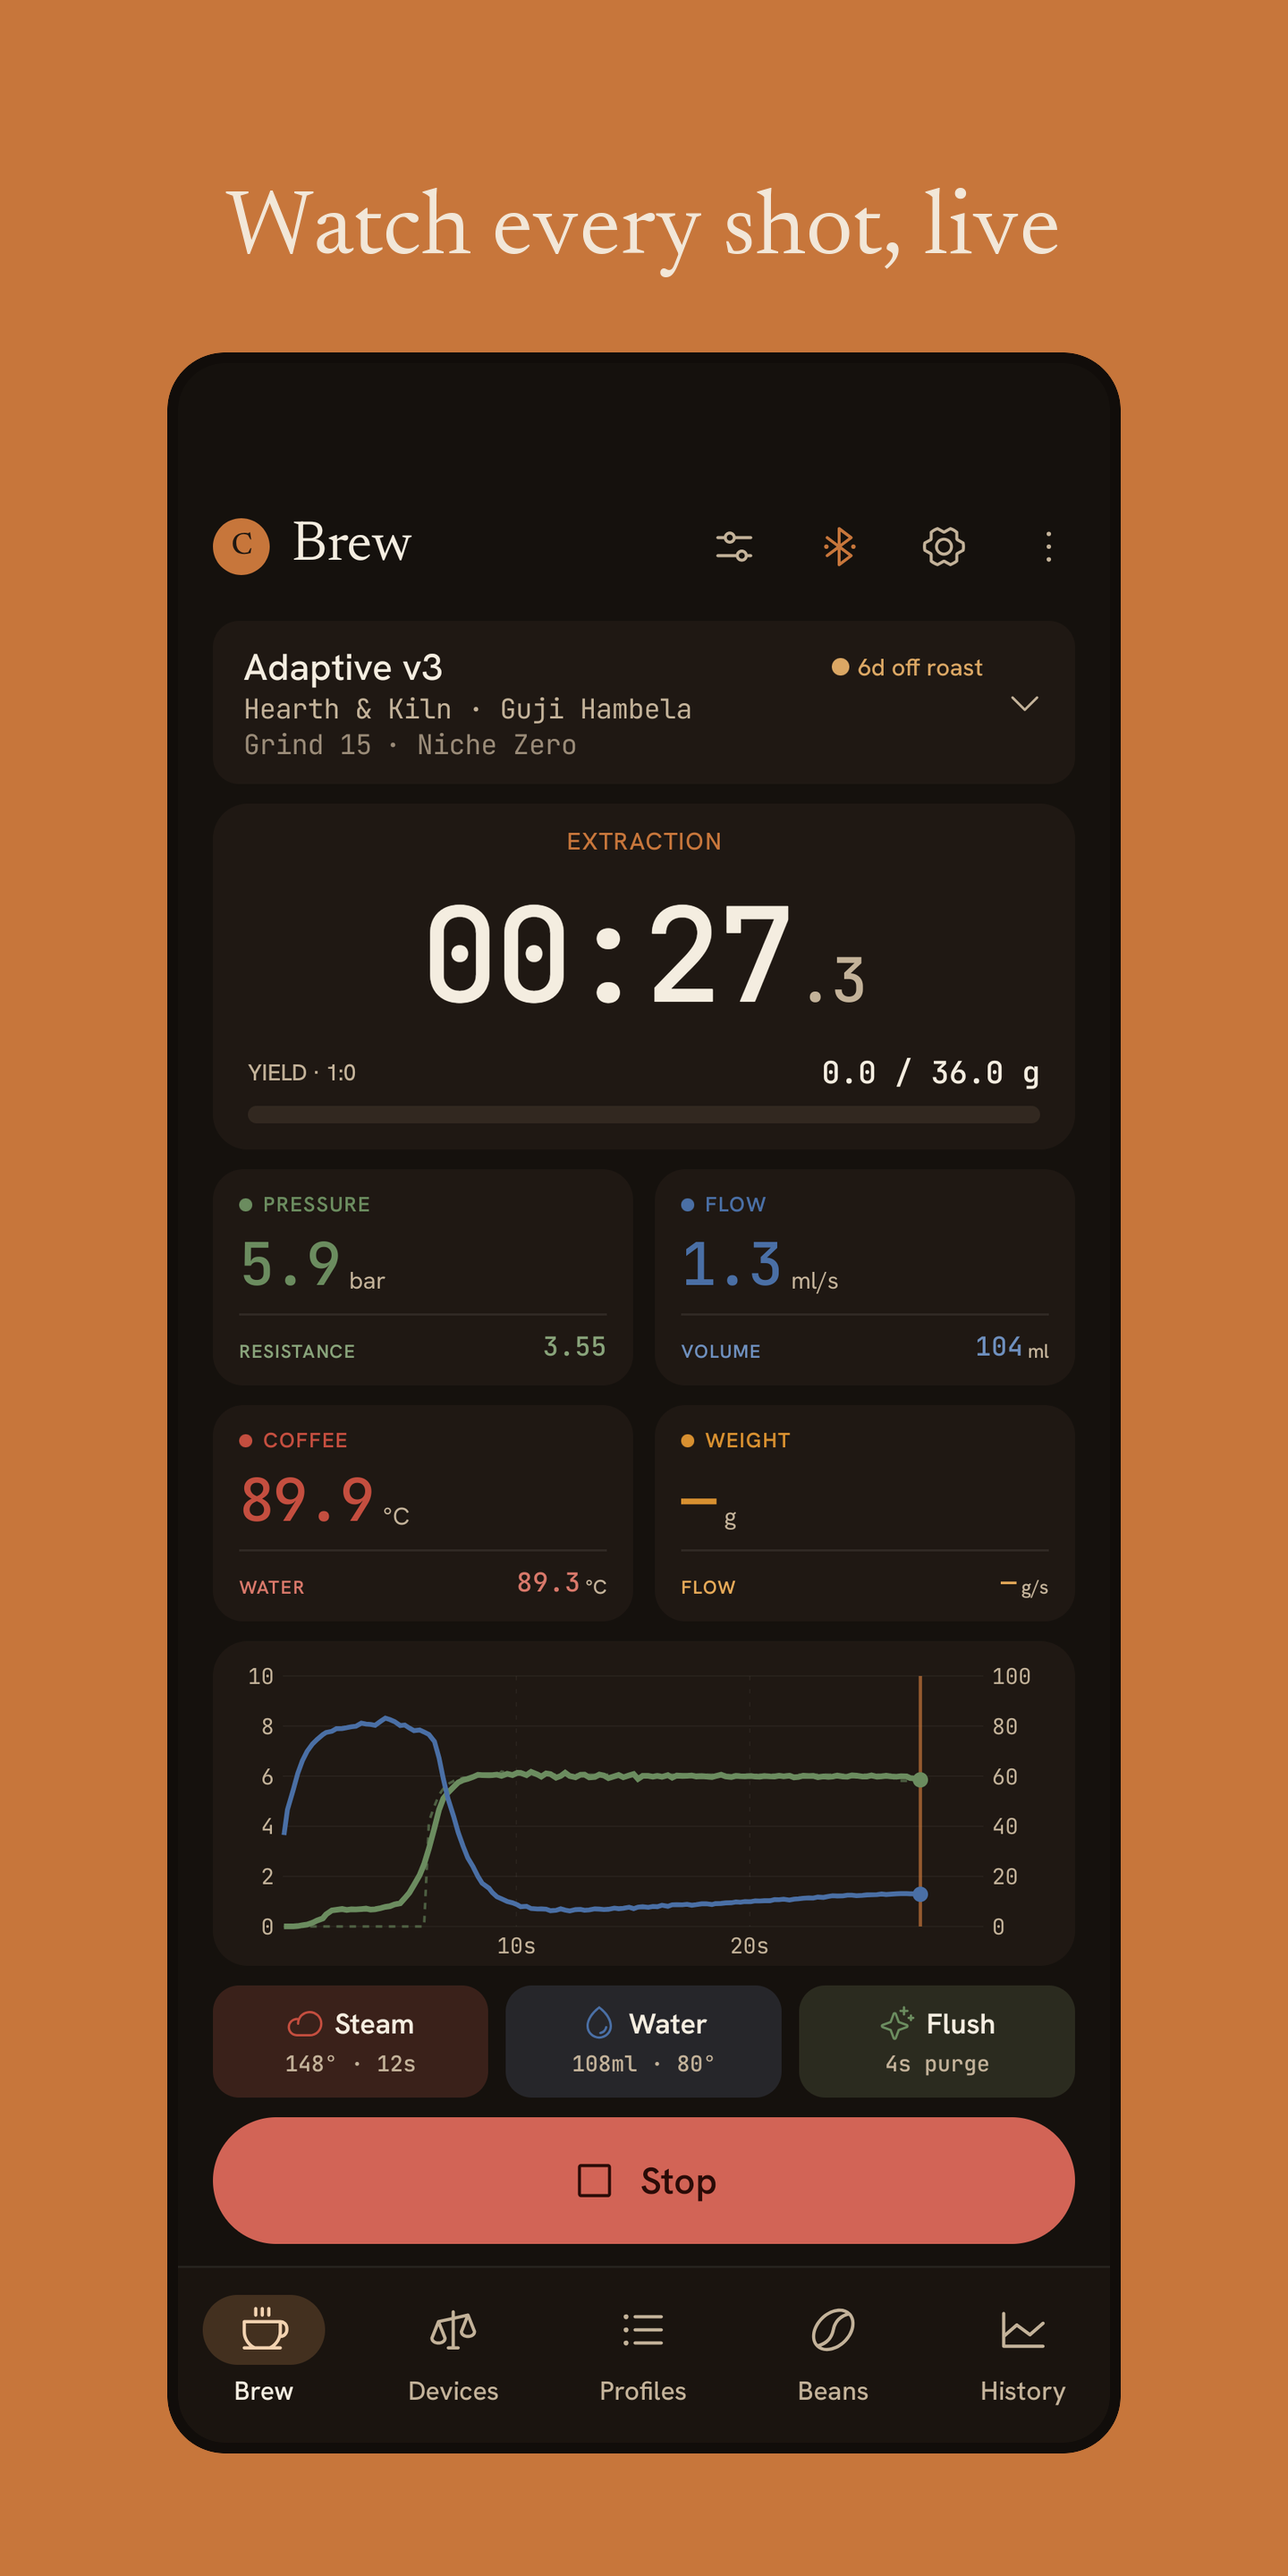
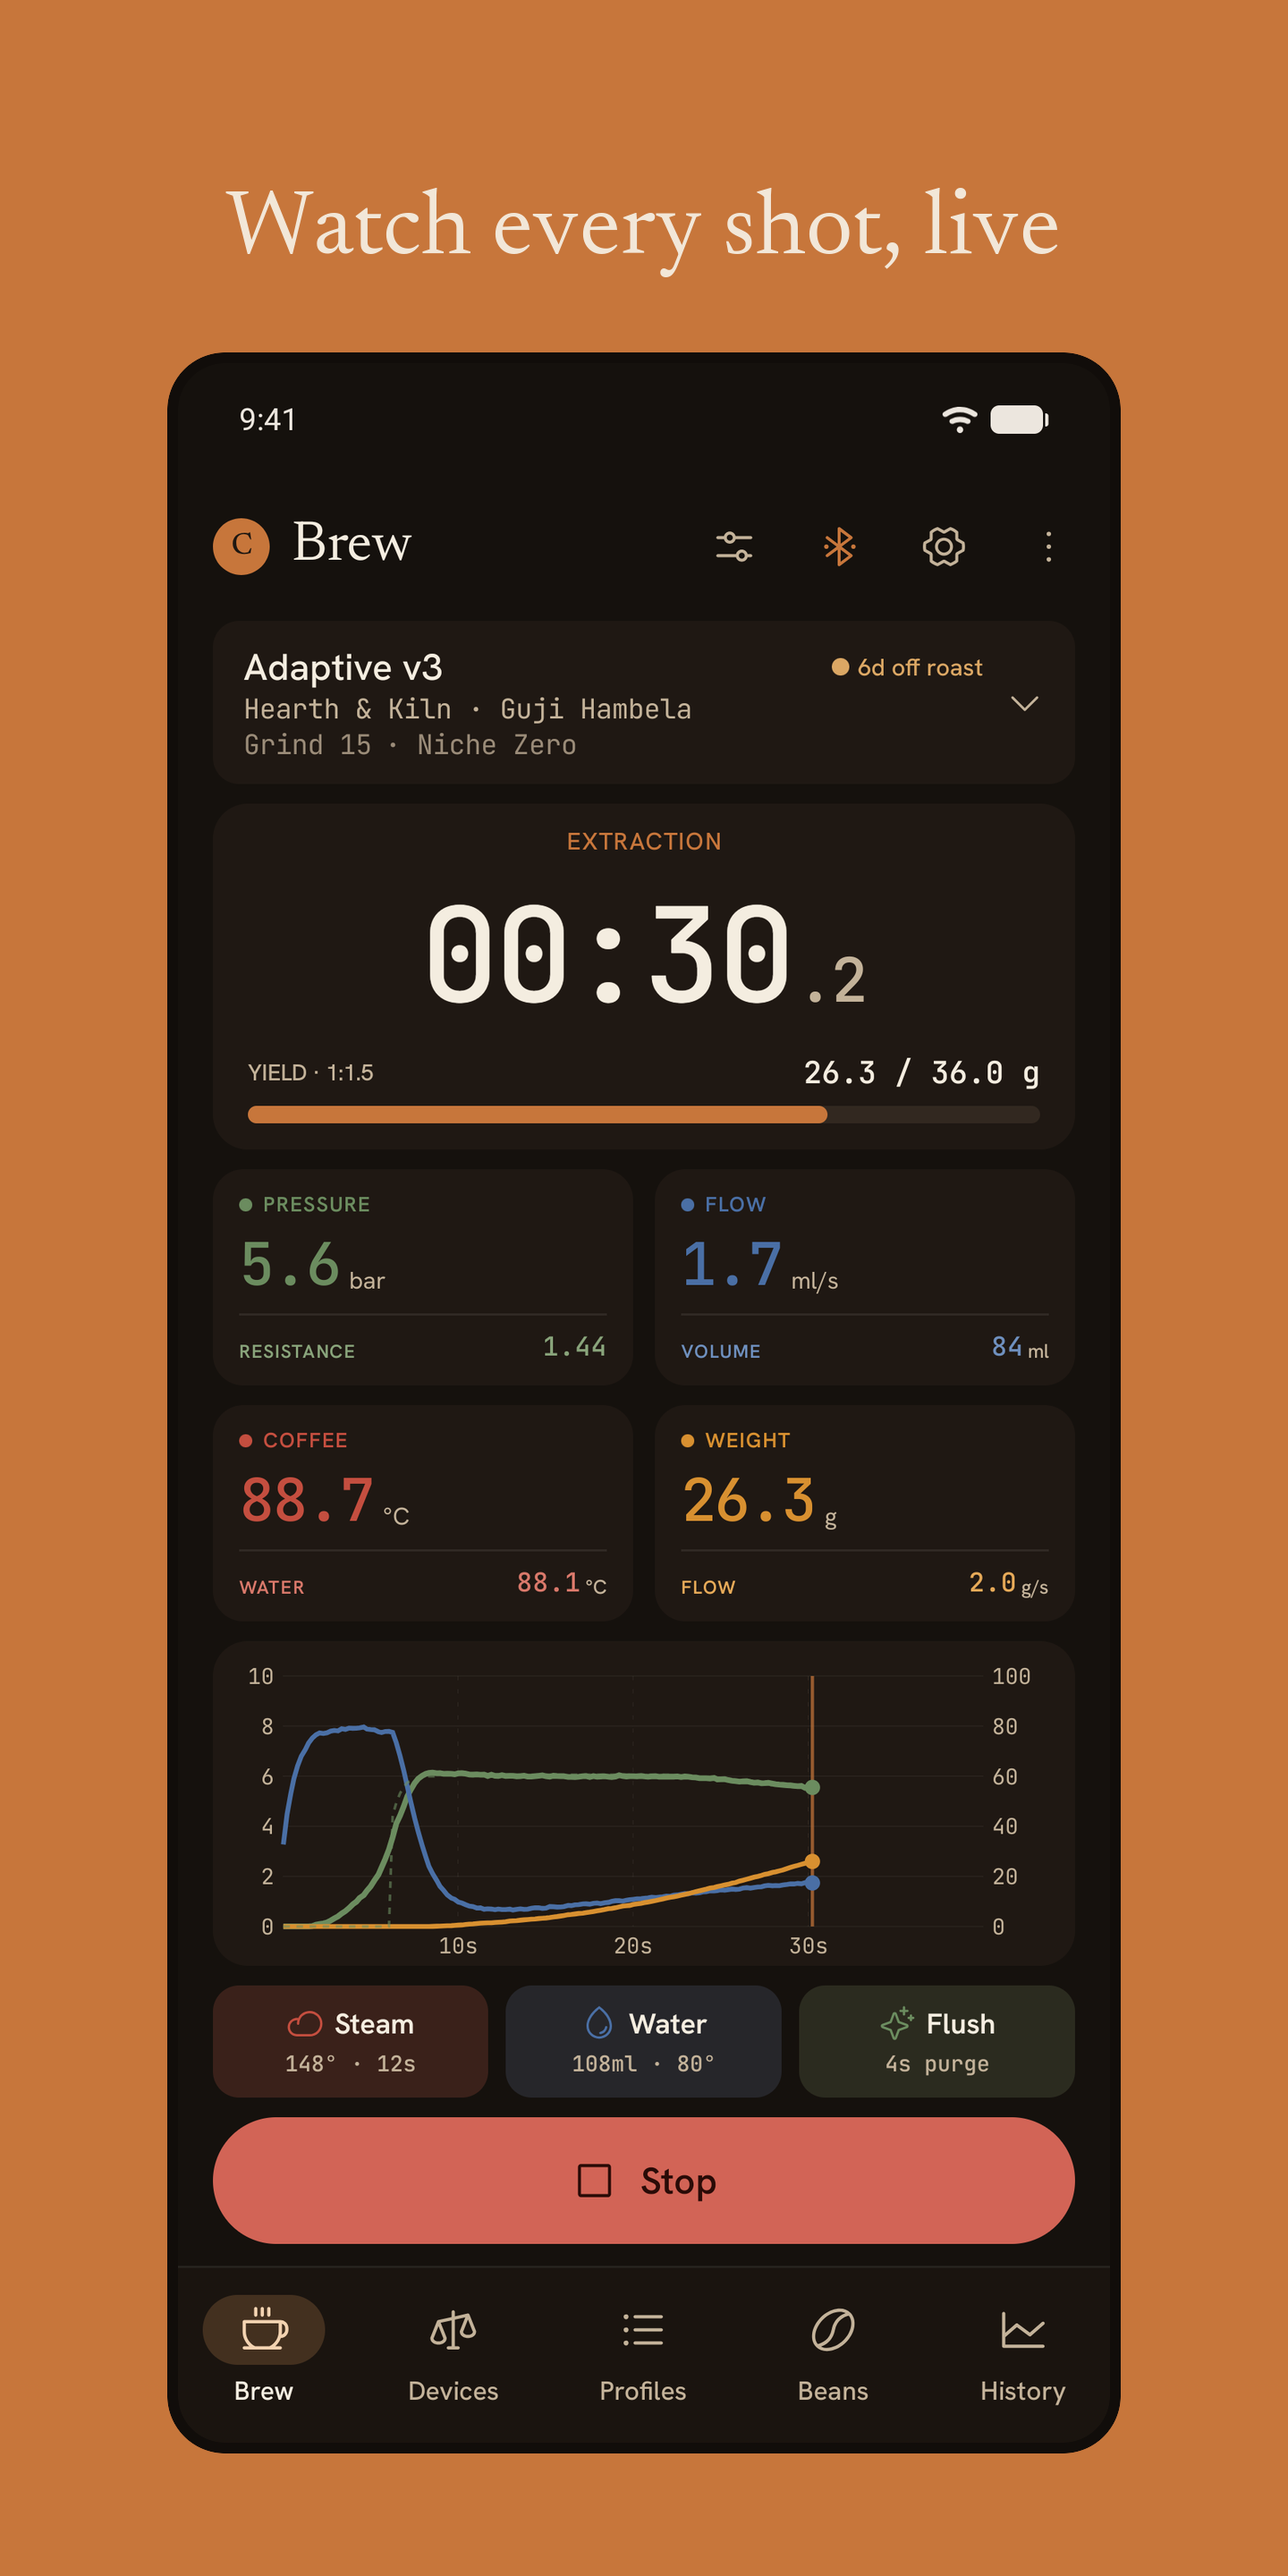
docs(play): scale weight, phone status bar and demo tags in the 0.12 shots
The live brew and Manual shots now show a scale reading. Espresso replays
the de1-model capture that carries a Bookoo weight stream, so yield and the
weight curve rise. Pour over follows a synthetic Bookoo stream through the
1 Cup V60 recipe, mid-pour against the planned line. Both were captured on
a build with a local, uncommitted replay change; no product code changes.

frame_screenshots.py draws a neutral status bar (9:41, Wi-Fi, battery) into
the blank top band of the phone shots, from brand/statusbar-phone.png.

The demo bags tagged "light" on top of a light roast level, which showed
"Light / light" on the tablet Brew bean column; their tags are now
"fruity" and "juicy", and the affected tablet shots are retaken.

diff --git a/brand/frame_screenshots.py b/brand/frame_screenshots.py
@@ -34,12 +34,16 @@ Needs ImageMagick 7 (`magick`). Downloads Newsreader to brand/ on first run
 Capturing the raws (the 0.12 set): a `playNightly` build on fresh emulators
 (Pixel 10 Pro, 7" landscape, 10" landscape) in dark mode, with demo data only:
 invented roasters, bags and shots restored from a crema-backup file
-(Settings ▸ Sharing ▸ Restore). The live brew is a replay of
-core/de1-app/tests/fixtures/session-*-shot-pull.jsonl: Settings ▸ Advanced ▸
-Hub mode + "Replay capture as DE1", the capture copied into the app's
-Android/data/<pkg>/files/captures (made world-readable), restart, Connect;
-the pour starts about 70 s after connecting. Manual is the built-in 1 Cup V60
-recipe, mid step 2. Grab each screen with `adb exec-out screencap -p`.
+(Settings > Sharing > Restore). The DE1 is a capture replayed through Settings >
+Advanced > Hub mode + "Replay capture as DE1": the capture is copied into the
+app's Android/data/<pkg>/files/captures (made world-readable), then restart
+and Connect. The espresso shot is core/de1-model/tests/fixtures/
+20260524T105452.jsonl, which also holds a Bookoo's weight stream. For the scale,
+the screenshot build carried a local, uncommitted change to ReplayBleTransport
+that also offers the capture's SCALE_WEIGHT lines as a "BOOKOO_SC" scale (and,
+for a scale-only capture, stamps them on the live clock). The pour-over weight
+is a synthetic Bookoo stream that follows the built-in 1 Cup V60 recipe.
+Grab each screen with `adb exec-out screencap -p`.
 """
 
 import argparse
@@ -60,7 +64,14 @@ LISTING = os.path.join(
 
 COPPER = "#C7763B"  # copper-500, the brand field
 CREAM = "#F2E7D8"  # caption ink
-FRAME = "#110D0A"  # device frame, a shade under the app's own background
+FRAME = "#110D0A"
+STATUS_INK = "#ECE6DE"  # status-bar glyphs, close to Android's dark-theme icons
+# A neutral Android status bar (9:41, Wi-Fi, full battery) as an alpha mask,
+# 1280 px wide: the phone app draws edge to edge and leaves the system bar
+# area blank in a screenshot, so the phone shots get this on top.
+STATUS_BAR = os.path.join(
+    HERE, "statusbar-phone.png"
+)  # device frame, a shade under the app's own background
 
 # The listing, in order. Slug → file name; caption → the line above the screen.
 SHOTS = [
@@ -86,10 +97,24 @@ class Target:
     frame_w: int
     bezel: int
     radius: int
+    status_bar: bool = False  # draw STATUS_BAR into a blank top band
 
 
 TARGETS = [
-    Target("phone", "phoneScreenshots", 1440, 2880, 104, 213, 187, 394, 1066, 12, 64),
+    Target(
+        "phone",
+        "phoneScreenshots",
+        1440,
+        2880,
+        104,
+        213,
+        187,
+        394,
+        1066,
+        12,
+        64,
+        status_bar=True,
+    ),
     Target(
         "tablet7", "sevenInchScreenshots", 1920, 1313, 125, 81, 154, 230, 1612, 14, 40
     ),
@@ -175,7 +200,57 @@ def caption_layer(text: str, t: Target, path: str) -> None:
     )
 
 
+def with_status_bar(raw: str, tmp: str) -> str:
+    """The raw with the neutral status bar drawn in its blank top band.
+
+    Leaves the raw alone when that band isn't one flat colour (a system bar
+    is already there).
+    """
+    mw, mh = map(
+        int, magick(STATUS_BAR, "-format", "%w %h", "info:", capture=True).split()
+    )
+    sw = int(magick(raw, "-format", "%w", "info:", capture=True))
+    flat = magick(
+        raw,
+        "-crop",
+        f"{sw}x{round(mh * sw / mw)}+0+0",
+        "+repage",
+        "-colorspace",
+        "gray",
+        "-format",
+        "%[fx:standard_deviation]",
+        "info:",
+        capture=True,
+    )
+    if float(flat) > 0.002:
+        return raw
+    out = os.path.join(tmp, "with-bar.png")
+    magick(
+        raw,
+        "-alpha",
+        "off",
+        "(",
+        STATUS_BAR,
+        "-resize",
+        f"{sw}x",
+        "-fill",
+        STATUS_INK,
+        "-colorize",
+        "100",
+        ")",
+        "-geometry",
+        "+0+0",
+        "-compose",
+        "over",
+        "-composite",
+        out,
+    )
+    return out
+
+
 def frame_one(raw: str, caption: str, t: Target, out: str, tmp: str) -> None:
+    if t.status_bar:
+        raw = with_status_bar(raw, tmp)
     inner_w = t.frame_w - 2 * t.bezel
     screen = os.path.join(tmp, "screen.png")
     sw, sh = map(int, magick(raw, "-format", "%w %h", "info:", capture=True).split())
